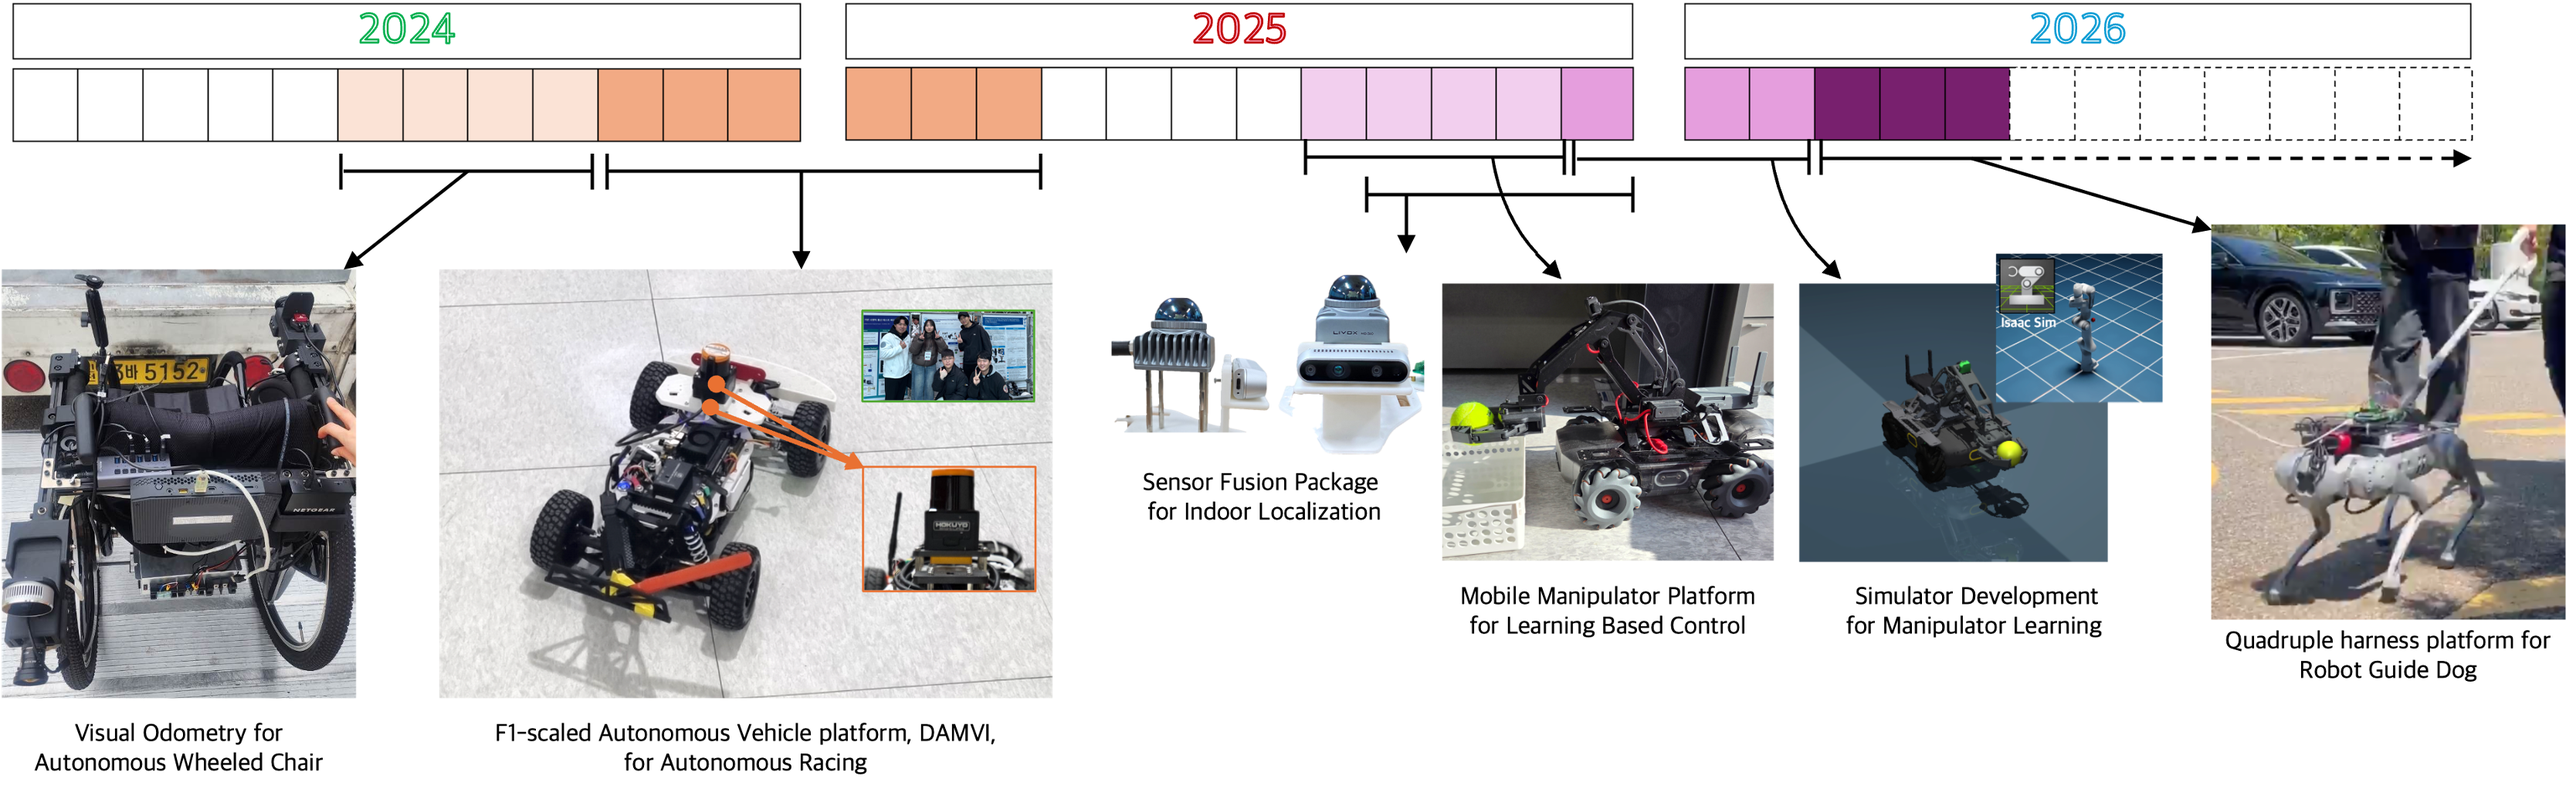
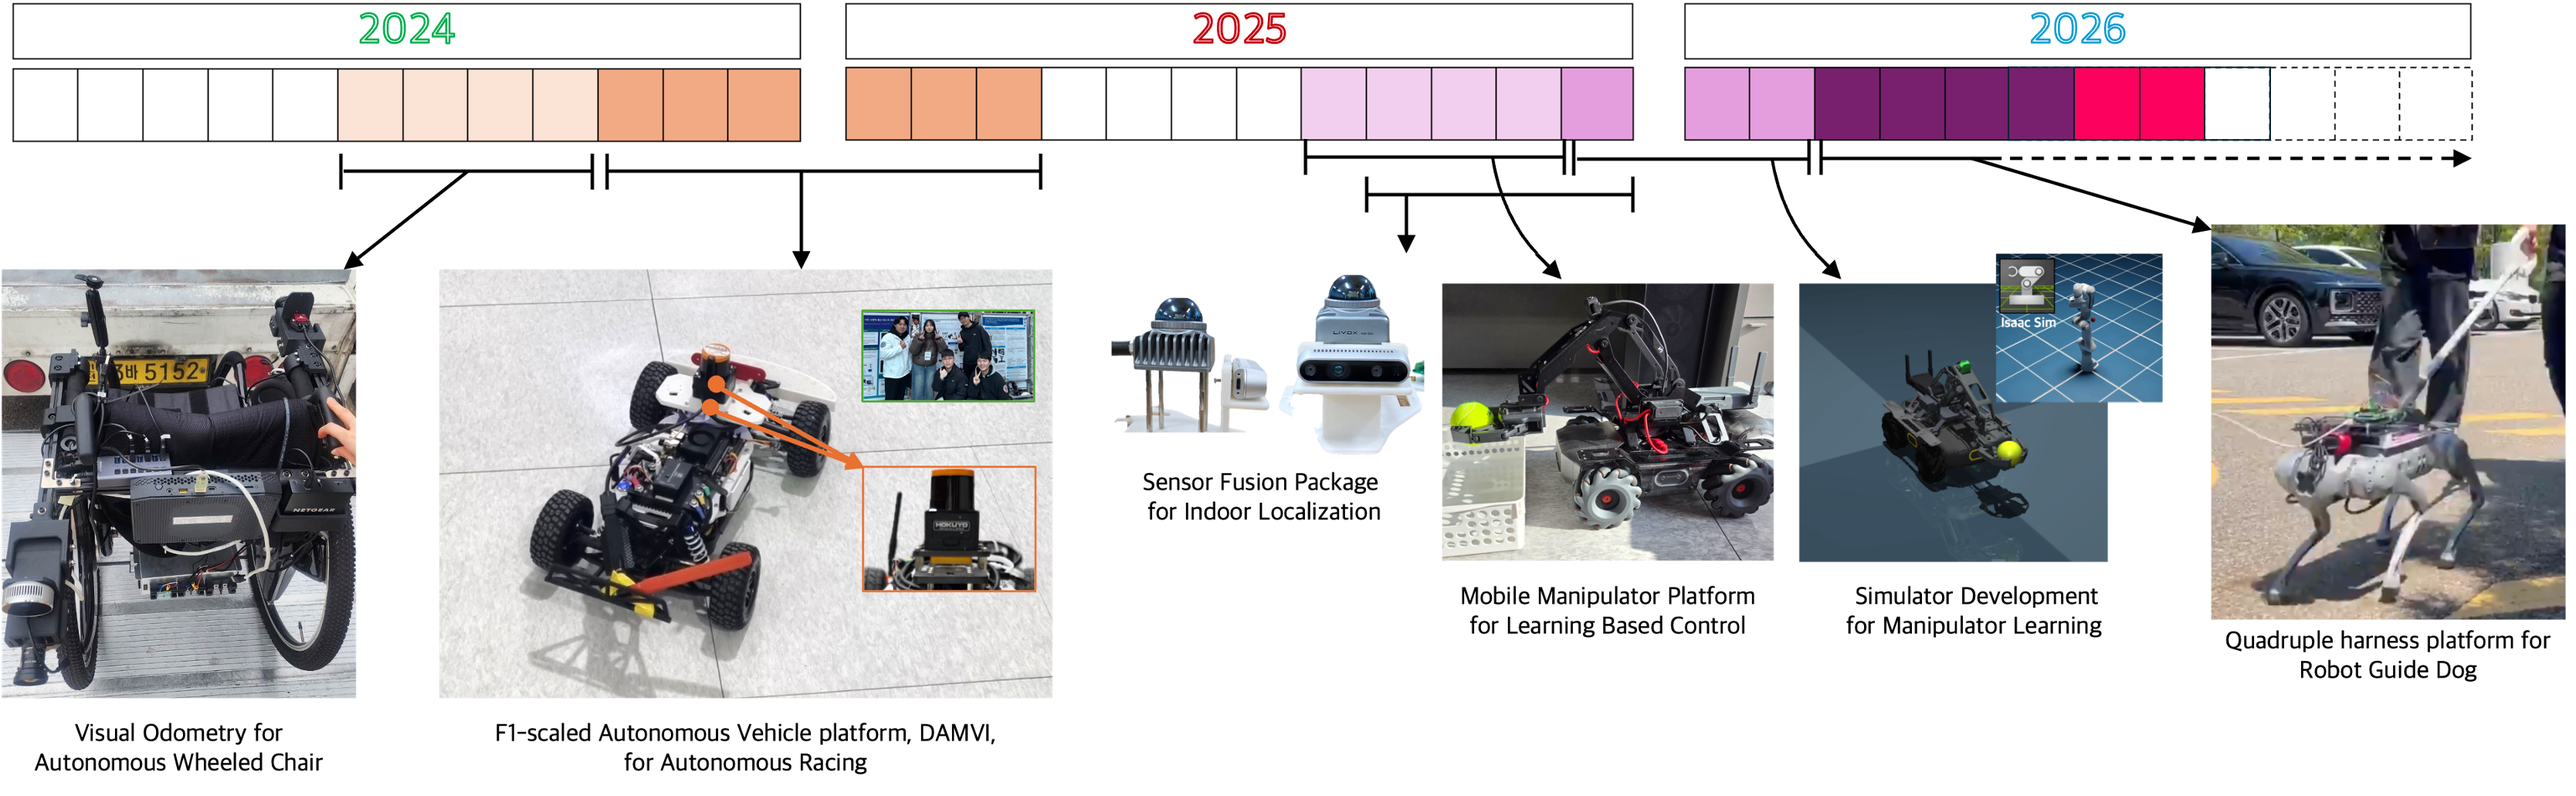
update for sep11

Changed region(s): [[0.7794, 0.0621, 0.8729, 0.1862]]

diff --git a/docs/index.html b/docs/index.html
@@ -649,7 +649,7 @@
               <p class="news-main">
                 <span class="news-icon" aria-hidden="true">🎉</span>
                 <span>
-                  Started a research internship at the
+                  Completed a research internship at the
                   <strong>
                     <a
                       class="lab-link"
@@ -659,7 +659,7 @@
                       >MLV Group</a
                     >
                   </strong>
-                  at POSTECH.
+                  at POSTECH in August.
                 </span>
               </p>
               <p class="news-sub">Advised by Prof. Kwangin Kim.</p>
@@ -679,7 +679,7 @@
               <h4>Inha University</h4>
               <p>Bachelor's Degree expected in Smart Mobility Engineering</p>
               <ul>
-                <li>Overall GPA: 4.29 / 4.50, Major GPA: 4.30 / 4.50</li>
+                <li>Overall GPA: 4.28 / 4.50, Major GPA: 4.28 / 4.50</li>
                 <li>
                   Republic of Korea Army (KATUSA); Sergeant, Honorable
                   Discharged (July 2022 - Jan 2024)
@@ -707,10 +707,10 @@
         <div class="cv-block">
           <h3>Experiences</h3>
           <div class="cv-entry">
-            <div class="date-badge">2026.07 – Present</div>
+            <div class="date-badge">2026.07 – 2026.08</div>
             <div>
               <h4>
-                Research Intern,
+                Undergraduate Research Intern,
                 <a
                   class="lab-link"
                   href="https://sites.google.com/view/mlvlab"
@@ -720,6 +720,10 @@
                 >
               </h4>
               <p>POSTECH</p>
+              <ul>
+                <li>Linear Algebra for Machine Learning Applications</li>
+                <li>Reinforcement Learning Study Group</li>
+              </ul>
             </div>
           </div>
 
